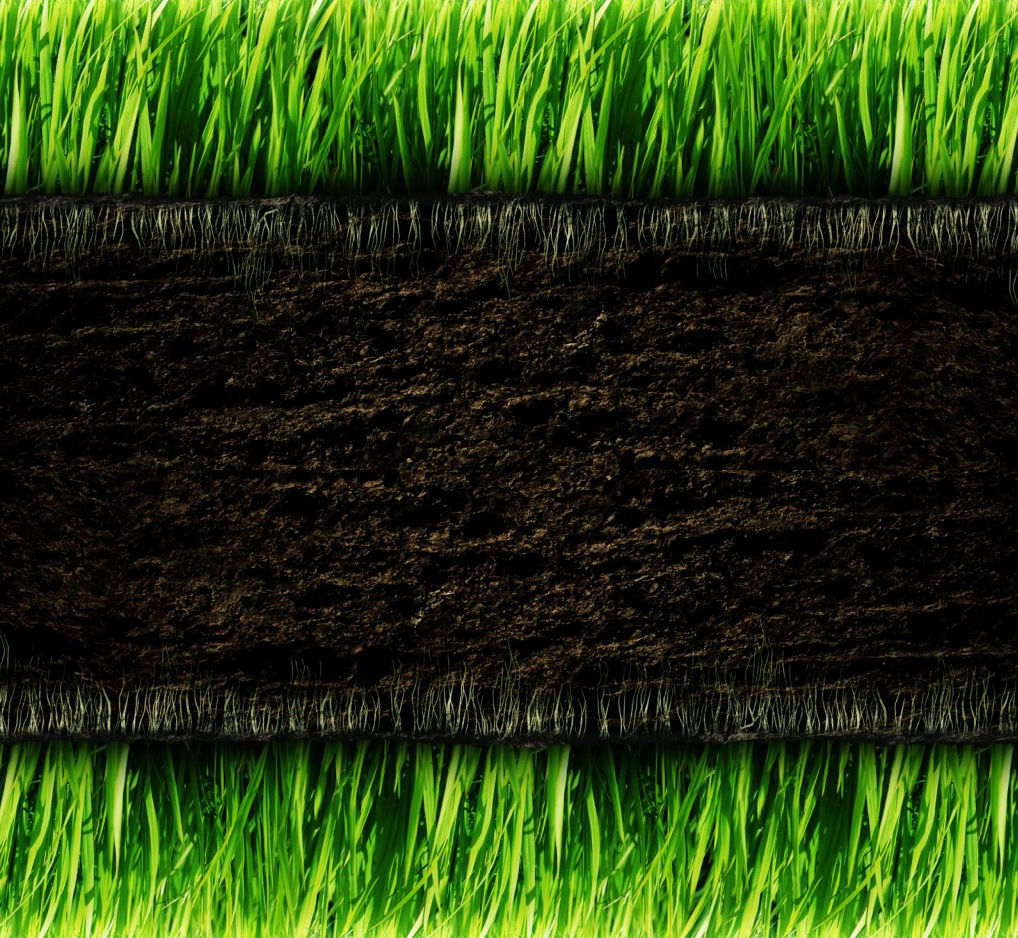
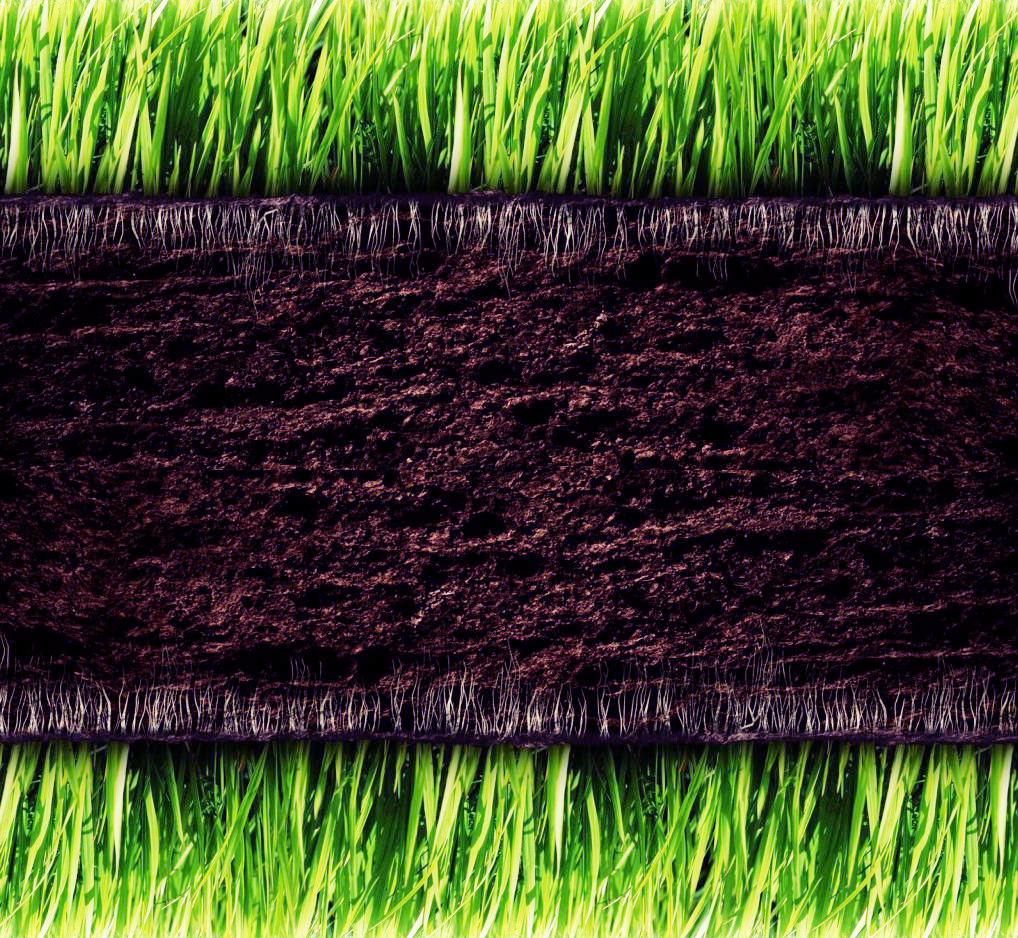
lots of styling changes

diff --git a/app/assets/stylesheets/custom.css.scss b/app/assets/stylesheets/custom.css.scss
@@ -4,7 +4,7 @@
 
 html {
     // background: url(image_path("dirt.jpg")) no-repeat center fixed;
-  background: url(image_path("dirt.jpg")) no-repeat center center fixed;
+  background: url(image_path("https://farm9.staticflickr.com/8535/8710875491_a03f76aeec.jpg")) no-repeat center center fixed;
   background-size: 100% 100%;
   min-height: 100%;
 }
@@ -14,7 +14,7 @@ body {
 }
 
 .whiteout {
-  margin-top: 7em;
+  margin-top: 10em;
   background-color: #ffffff;
   padding-bottom: 2em;
   width: 100%;
@@ -31,19 +31,6 @@ body {
   margin-top: 1em;
 }
 
-.nav-for-everybody {
-  font-family: "helvetica";
-  font-size: 2em;
-  background-color: #000000;
-  padding-top: 2em;
-  padding-left: 1em;
-  // text-align: center;
-}
-
-.nav-for-everybody a {
-  color: #d0d0d0;
-}
-
 small {
   color: #df8581;
   font-size: .7em;
@@ -51,20 +38,22 @@ small {
 
 // ~*~*~*~*~*~*~*~*~*~*~*~*~*~*~*front-page~*~*~*~*~*~*~*~*~*~*~*~*~*~*~*~*~*~*~*~*~*
 .icons-wrapper {
-  background-color: #ffffff;
+  background-color: #ede9e9;
+  padding-top: 2em;
+  padding-bottom: 8em;
 }
 
 .icons-n-links {
   text-align: center;
-  background-color: #ffffff;
-  padding-bottom: 2em;
+  padding-top: 6em;
+  padding-bottom: 7em;
   margin: 0 auto;
-  width: 80%;
+  width: 100%;
 }
 
 .icons-n-links a {
   font-family: "Open Sans", sans-serif;
-  font-size: 1.5em;
+  font-size: 1em;
   color: #000000;
 }
 
@@ -73,7 +62,7 @@ small {
 }
 
 .icons-n-links img {
-  width: 10em;
+  width: 7em;
 }
 
 .front-wrapper {
@@ -82,15 +71,16 @@ small {
 }
 
 .shovel {
-  float: left;
+
 }
 
 .sow {
 
+
 }
 
 .events {
-  float: left;
+
 }
 
 .news {
@@ -103,8 +93,8 @@ small {
   margin-top: 0;
   text-align: center;
   font-size: 1.5em;
-  color: #e5fefc;
-  text-shadow: 2px 2px #574f4f;
+  color: #54a79c;
+  text-shadow: 1px 1px #d8cece;
 }
 
 .signup-signin, .signup-signin-2 {
@@ -216,7 +206,7 @@ small {
 .calendar-month, .tools {
   text-align: center;
   font-size: 3em;
-  font-family: "Palatino";
+  font-family: "Helvetica";
   color: #7fdcd5;
   text-shadow: 1px 1px #000000;
 }

diff --git a/config/routes.rb b/config/routes.rb
@@ -41,6 +41,8 @@
   get "/tools/:id",         to: "tools#show",       as: :tool
   patch "/tools/:id",       to: "tools#update",     as: :edit_tool
 
+  get "/about",             to: "about#index",      as: :about
+
   # The priority is based upon order of creation: first created -> highest priority.
   # See how all your routes lay out with "rake routes".
 

diff --git a/app/controllers/about_controller.rb b/app/controllers/about_controller.rb
@@ -1,0 +1,4 @@
+class AboutController < ApplicationController
+  def index
+  end
+end
